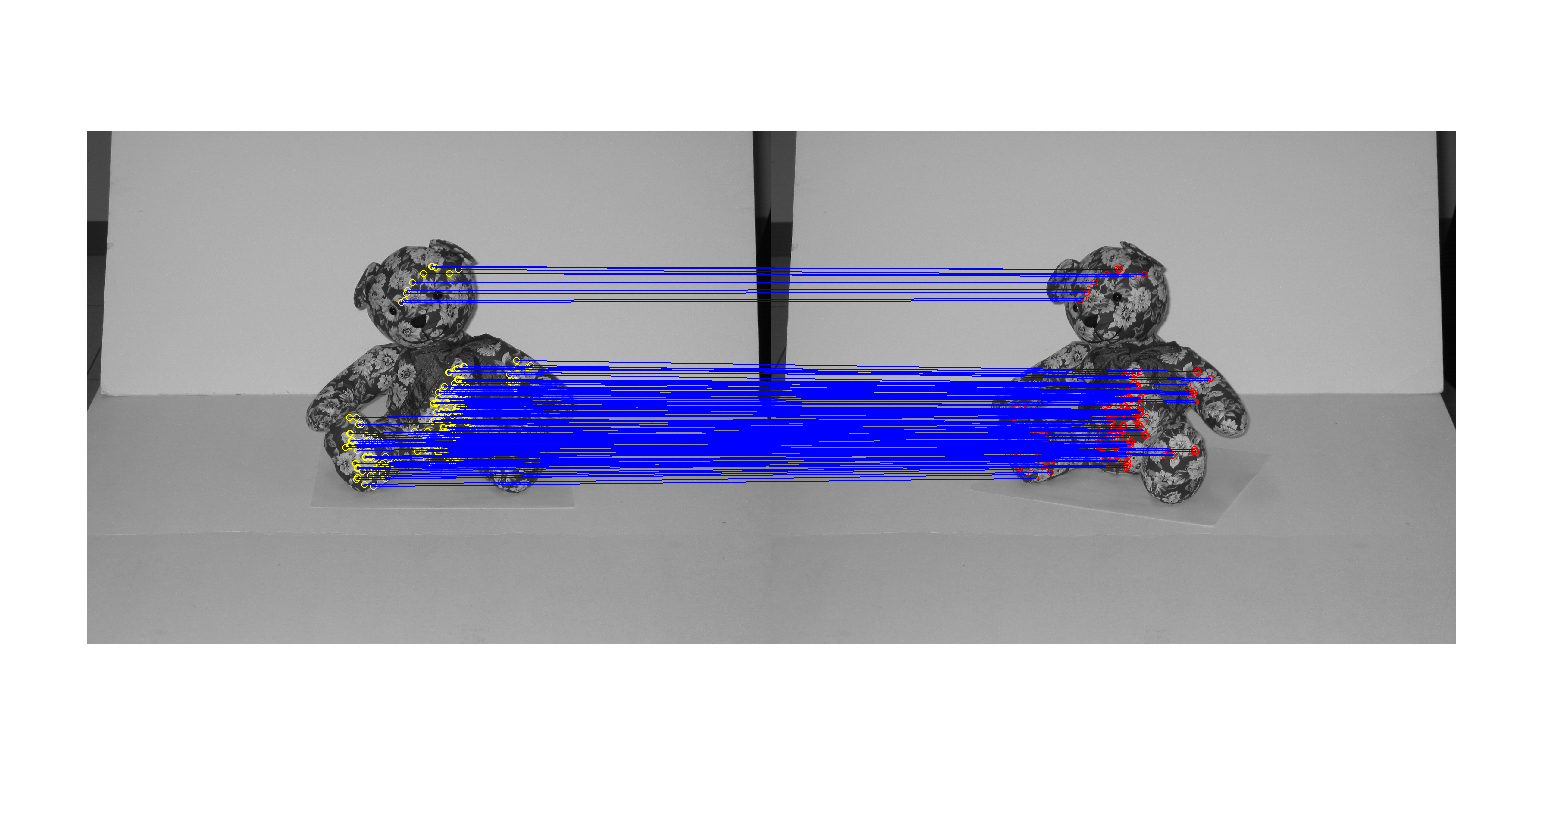
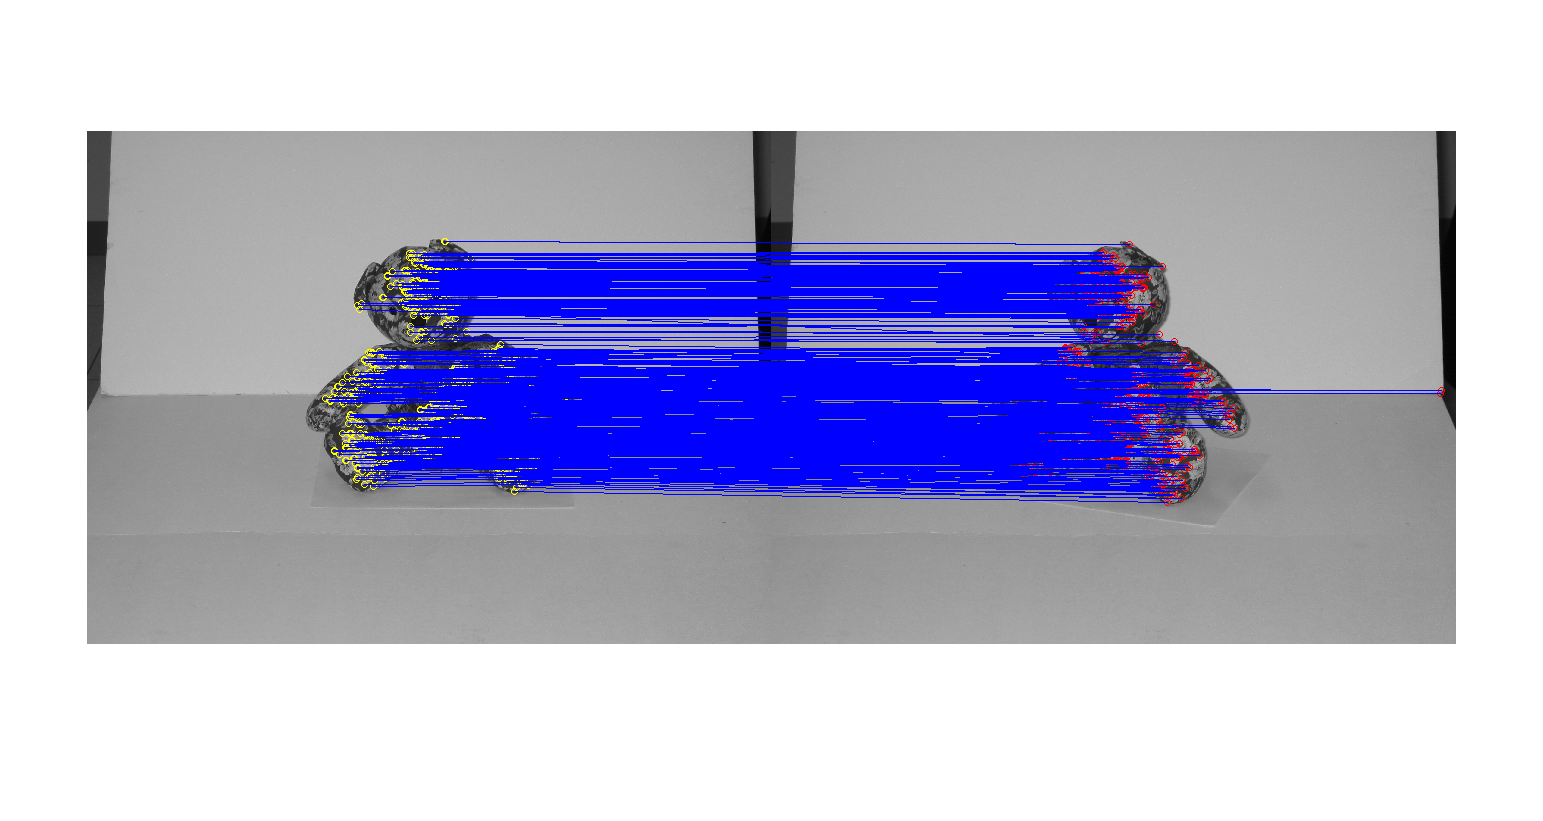
lol done

Changed region(s): [[0.2178, 0.3045, 0.8088, 0.609]]

diff --git a/Assignment5/estimateFundamental.m b/Assignment5/estimateFundamental.m
@@ -5,7 +5,7 @@ bestinliers = [];
 
 iterations = 50;
 % We need a better value for this
-threshold  = 0.001;
+threshold  = 0.01;
 P=8;
 
 for i=1:iterations
@@ -20,10 +20,13 @@ for i=1:iterations
    F = Vt(:,9);
    F = reshape(F,3,3);
    
-   % Find inliers
-   match2est = F*match1;
-   estimates = abs(diag(match2est' * match2))';
-   seed = find(estimates<threshold);
+   % Find inliers using Sampson distance
+   numer = (diag(match2' * (F*match1))').^2;
+   Fm1 = F*match1;
+   Fm2 = F*match2;
+   denom = sum([Fm1(1:2,:);Fm2(1:2,:)].^2);
+   sd = numer./denom;
+   seed = find(sd<threshold);
 
    % Use inliers to re-estimate F
    A = getA(match1(:,seed), match2(:,seed));
@@ -32,9 +35,12 @@ for i=1:iterations
    F = reshape(F,3,3);
    
    % Find inliers
-   match2est = F*match1;
-   estimates = abs(diag(match2est' * match2))';
-   inliers = find(estimates<threshold);
+   numer = (diag(match2' * (F*match1))').^2;
+   Fm1 = F*match1;
+   Fm2 = F*match2;
+   denom = sum([Fm1(1:2,:);Fm2(1:2,:)].^2);
+   sd = numer./denom;
+   inliers = find(sd<threshold);
    
    % if inlier count< best sofar, use new F
    if size(inliers,2)>bestcount

diff --git a/Assignment5/Fdemo.m b/Assignment5/Fdemo.m
@@ -3,6 +3,7 @@ function F = Fdemo()
 % Computes Fundamental Matrix using the normalized Eight-Point Algorithm
 
 % Read images
+disp('Reading images');
 img1 = im2double(rgb2gray(imread('TeddyBearPNG/obj02_001.png')));
 img2 = im2double(rgb2gray(imread('TeddyBearPNG/obj02_002.png')));
 
@@ -11,6 +12,7 @@ img2 = im2double(rgb2gray(imread('TeddyBearPNG/obj02_002.png')));
 [feat2,desc2,~,~] = loadFeatures('TeddyBearPNG/obj02_002.png.haraff.sift');
 
 % Match Descriptors
+disp('Matching Descriptors');
 matches = vl_ubcmatch(desc1,desc2);
 
 % Get X,Y coordinates of features
@@ -18,13 +20,17 @@ f1 = feat1(1:2,matches(1,:));
 f2 = feat2(1:2,matches(2,:));
 
 % Normalize X,Y
+disp('Normalizing coordinates');
 [f1n,T1] = normalize(f1);
 [f2n,T2] = normalize(f2);
 
 % Estimate Fundamental Matrix, singularize and retransform using T and T'
+disp('Estimating F');
 [F inliers] = estimateFundamental(f1n,f2n);
 F = singularizeF(F);
 F = T2'*F*T1;
+
+disp(strcat(int2str(size(inliers,2)), ' inliers found'));
 
 % Show the images with matched points
 figure;
